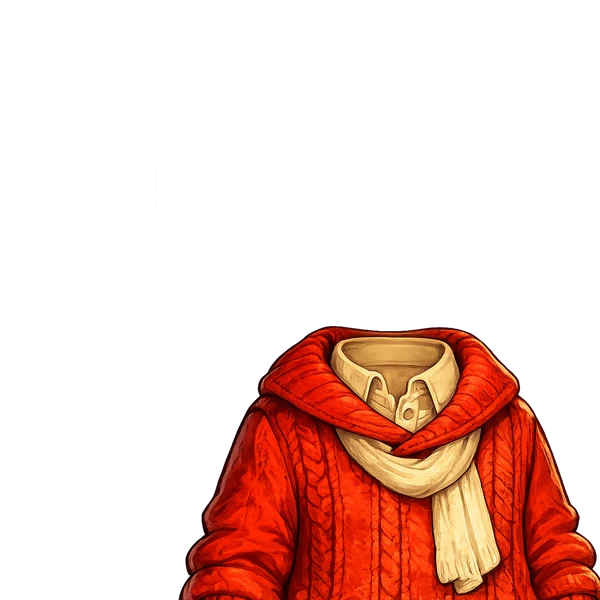
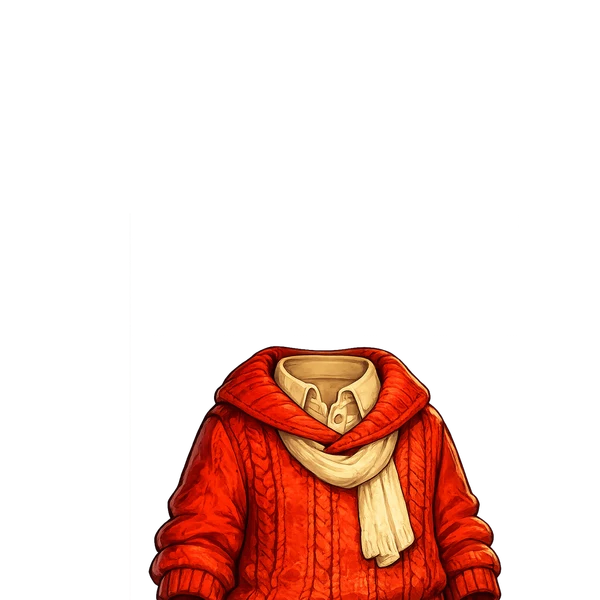
Two garments sat off to one side, and the Long Trip's unlock announced itself either never or forever
THE TWO PLATES

Joshua: the heads are way misaligned on 8f47d6ba and c41541d7. He was right, and
the fault was mine rather than the fitter's — I set their dx and dy by eye against
a 400px preview in the lab and called it verified. A cowl-neck sweater with a
scarf hanging down one side is exactly the shape that makes "looks centred" a bad
judgement, and at full size both were visibly offset.

They are placed by LADDER now: rendered across a row of scales and collar heights,
composited under the real head plate at the real canvas size, and compared. Cowl
sweater 0.4655 → 0.75 at (254, 420); hooded coat 0.5051 → 0.72 at (253, 380).

Half my original error was in the diagnostic rather than the art. The first ladder
I built composited the 600px avatar plates onto the 1183px reference canvas, so
the head rendered at the wrong size in the wrong place and invented a gap between
chin and collar that was never in the garment. I chased that gap for three
iterations before noticing the canvases disagreed.

DETECTING THESE IS WORTH AUTOMATING; CORRECTING THEM IS NOT

The score does not identify them — 0.66 and 0.72 are unremarkable numbers, and a
genuinely unusual garment would score the same. The SCALE does: every plate on the
1024x1536 sheet fitted between 0.86 and 1.05 and these two came back at 0.47 and
0.51. Nothing that is really a garment for this body is half the size of every
other garment drawn on the same sheet. The script takes the median scale of the
[…]

Changed region(s): [[0.24, 0.54, 1.0, 1.0]]

diff --git a/test/longtrip.test.js b/test/longtrip.test.js
@@ -175,3 +175,45 @@ describe("unlocks — what a guest can reach", () => {
     expect(profiles.unlocks(profiles.getProfile("Fresh")).longtrip).toBe(false);
   });
 });
+
+// ---------------------------------------------------------------------------
+// What Uncle Jonah says when it opens.
+//
+// Every gate that gets a full-screen unlock beat needs a line from him, and the
+// Long Trip had none for two months — so the one mode whose unlock is a real
+// event announced itself with silence where the other four got a sentence.
+//
+// The list of gates lived in three places (UNLOCK_BEAT_KEYS, a literal `ANN` on
+// the meet screen, UNLOCK_LINES) and they disagreed. That is not only a missing
+// line: both screens write `seenUnlocks`, so the meet screen's shorter list
+// overwrote the results screen's record every session and the Long Trip's beat
+// fired again after EVERY run. These assertions are against the data files,
+// which is as close as a test can get without importing the 9k-line component.
+// ---------------------------------------------------------------------------
+describe("unlock announcements", () => {
+  // Mirrors UNLOCK_BEAT_KEYS in shutterbug-world.jsx. Kept literal for the same
+  // reason test/art.test.js keeps its mode list literal — importing the game
+  // component drags React and every asset into the run.
+  const BEAT_KEYS = ["medium", "tour", "hard", "expeditions", "longtrip"];
+
+  it("gives every announced unlock a line from Jonah", async () => {
+    const { UNLOCK_LINES } = await import("../src/data/grandpa.js");
+    for (const k of BEAT_KEYS) {
+      expect(UNLOCK_LINES[k], `no line for ${k}`).toBeTruthy();
+    }
+  });
+
+  it("states the requirement for every announced unlock", async () => {
+    const { UNLOCK_REQ } = await import("../src/profiles.js");
+    for (const k of BEAT_KEYS) {
+      expect(UNLOCK_REQ[k], `no requirement text for ${k}`).toBeTruthy();
+    }
+  });
+
+  it("announces only gates that unlocks() can actually report", async () => {
+    const profiles = await import("../src/profiles.js");
+    for (const k of BEAT_KEYS) {
+      expect(profiles.UNLOCK_KEYS, `${k} is announced but unlocks() never returns it`).toContain(k);
+    }
+  });
+});

diff --git a/src/data/grandpa.js b/src/data/grandpa.js
@@ -293,9 +293,18 @@ export const MEET_ASK = "Now then — what sort of adventure are we after today?
 // meet screen. Keyed by the unlock id (see profiles.js → unlocks()).
 export const UNLOCK_LINES = {
   medium: "You've got a trip under your belt now — I reckon you're ready for a tougher clue. Medium's open to you!",
+  // DEAD, kept only so it isn't rewritten from scratch if the Quiz ever comes
+  // back as a mode. It can't be reached: the announce list is UNLOCK_BEAT_KEYS
+  // now, and `quiz` is not in it — the review quiz happens at the end of every
+  // run instead of being something you unlock.
   quiz: "And here's a treat: fancy a quick Quiz between expeditions? It's yours to play now.",
   tour: "Fifteen places in the album! That's a proper photographer. The Grand Tour is open — a whole itinerary in one trip.",
   hard: "Stamps on three continents — you know your way around the globe now. If you're brave, Hard mode is unlocked. No hints, mind!",
+  // Twenty places. The other four lines name what opened and what it costs you;
+  // this one also has to explain the bag, because taking two of the three things
+  // he offers is the decision that makes the Long Trip different from every other
+  // mode, and a child meeting that screen cold doesn't know it's coming.
+  longtrip: "Twenty places! There comes a point where a traveler stops planning trips and simply goes. The Long Trip is yours now — one journey that runs until your days do. Come and look in my old bag before you set off; you'll have to choose what to carry.",
   expeditions: "Twenty-five places! Extraordinary. I've unlocked the Themed Expeditions — curated grand tours, each with a little lesson.",
 };
 // When the traveler's press rank goes up, Uncle tips his hat. Filled with the

diff --git a/src/shutterbug-world.jsx b/src/shutterbug-world.jsx
@@ -2528,10 +2528,18 @@ export default function ShutterbugWorld() {
     if (profile) {
       const u = unlocks(profile);
       const rank = careerRank(profile);
-      // "quiz" is intentionally not here: it's no longer a mode to announce as
-      // unlocked (the review quiz just happens at the end of every run now).
-      const ANN = ["medium", "tour", "hard", "expeditions"];
-      const nowUnlocked = ANN.filter((k) => u[k]);
+      // UNLOCK_BEAT_KEYS, not a second list. This used to be a literal that
+      // omitted `longtrip`, and the cost was not just a missing line — it was a
+      // beat that fired FOREVER. Both screens write `seenUnlocks`, and they wrote
+      // it from different lists: the results screen recorded the Long Trip as
+      // announced, and then the meet screen, which runs at the start of every
+      // session, overwrote the whole array with its shorter one and dropped it
+      // again. So a traveler past twenty places was handed the full-screen "The
+      // Long Trip is open!" card after every single run.
+      //
+      // ("quiz" is in neither list, which is correct: the review quiz is not a
+      // mode you unlock any more, it just happens at the end of every run.)
+      const nowUnlocked = UNLOCK_BEAT_KEYS.filter((k) => u[k]);
       const seen = profile.seenUnlocks;
       const seenRank = typeof profile.seenRank === "number" ? profile.seenRank : rank.tier;
       if (Array.isArray(seen)) {

diff --git a/docs/remaining-work.md b/docs/remaining-work.md
@@ -685,14 +685,30 @@ reach the game: the plates go to `public/outfit-lab/`, `src/data/avatar.js` is n
 regenerated, and the wardrobe is untouched. Results:
 
 - **21 of 23 registered automatically**, IoU 0.86–0.97 against the shipped body.
-- **2 needed a hand nudge**, and they failed the same way — placed at about half
-  size. Both are garments whose neckline sits far lower relative to the shoulders
-  than anything shipped: a cowl-neck sweater with a scarf, and a hood worn up. The
-  fit finds it scores better to shrink such a garment until it nests inside the
-  shoulder band than to place it honestly. **Worth knowing before the next
-  delivery: a high collar or a raised hood is the shape this cannot do alone.**
-  Both are corrected in `MANUAL` and both landed at scale ≈0.92, inside the cluster
-  the other 21 found by themselves.
+- **2 needed placing by hand**, and they failed the same way — fitted at about
+  half size. Both are garments whose neckline sits far lower relative to the
+  shoulders than anything shipped: a cowl-neck sweater with a scarf, and a hood
+  worn up. For those the fit scores *better* by shrinking the garment until it
+  nests inside the shoulder band than by placing it honestly, so it is a real
+  optimum and the wrong answer. **Worth knowing before the next delivery: a high
+  collar or a raised hood is the shape this cannot do alone.**
+  - **Detecting them is automated; correcting them is not, and that is settled.**
+    A low score doesn't identify them (0.66 and 0.72 are unremarkable) — the
+    *scale* does: every plate on the same 1024×1536 sheet fitted between 0.86 and
+    1.05 and these came back at 0.47 and 0.51. The script now flags anything far
+    outside its peers' median and says whether `MANUAL` covers it.
+  - Two automatic corrections were tried and both failed, recorded in the script
+    so nobody repeats them: re-searching with the scale confined to the peer band
+    just pins to the floor of whatever band it's given (the objective really is
+    monotone for these shapes), and matching the shoulder *span* centres and sizes
+    them plausibly but still sits them a neck too low — a chunky knit's outer
+    shoulder isn't the same landmark as a jacket's.
+  - The two in `MANUAL` were set by **ladder** — rendered at a row of scales and
+    collar heights, composited under the real head plate at the real canvas size,
+    and compared — after a first attempt judged against a 400px preview came out
+    visibly off to one side and Joshua caught it immediately. Half that error was
+    in the diagnostic, not the art: the first ladder composited 600px head plates
+    onto the 1183px reference canvas and invented a gap that was never there.
 
 The alignment is derived from the art that is already correct rather than from
 landmarks — the silhouette at least three of the five shipped outfits agree on IS
